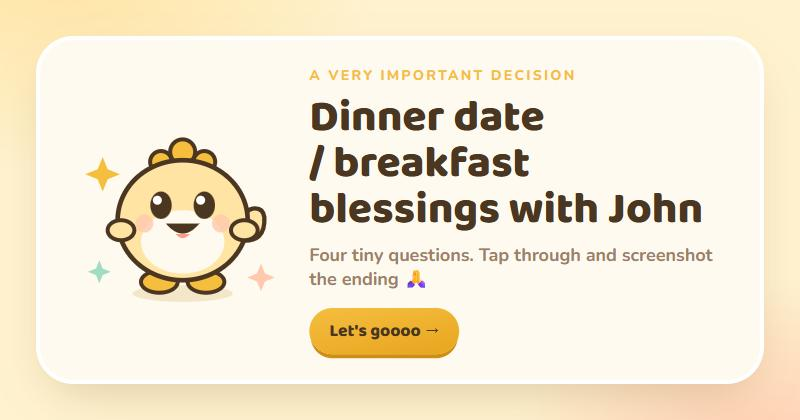
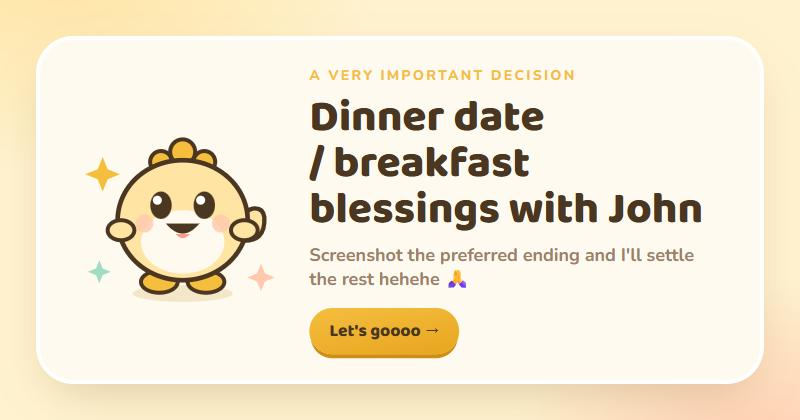
Reword the link preview description

Changed region(s): [[0.375, 0.5881, 0.9062, 0.681]]

diff --git a/index.html b/index.html
@@ -13,14 +13,14 @@
 <meta property="og:type" content="website">
 <meta property="og:url" content="https://wongtrjohn.github.io/meal-picker/">
 <meta property="og:title" content="Dinner date / breakfast blessings with John">
-<meta property="og:description" content="Four tiny questions for Jac. Tap through and screenshot the ending 🙏">
+<meta property="og:description" content="Screenshot the preferred ending and I'll settle the rest hehehe 🙏">
 <meta property="og:image" content="https://wongtrjohn.github.io/meal-picker/preview.jpg">
 <meta property="og:image:type" content="image/jpeg">
 <meta property="og:image:width" content="800">
 <meta property="og:image:height" content="420">
 <meta property="og:image:alt" content="A chubby butter-yellow dragon beside the words Dinner date / breakfast blessings with John">
 <meta name="twitter:card" content="summary_large_image">
-<meta name="description" content="Four tiny questions for Jac. Tap through and screenshot the ending.">
+<meta name="description" content="Screenshot the preferred ending and I'll settle the rest hehehe">
 <meta name="theme-color" content="#FFE4A3">
 <link rel="preconnect" href="https://fonts.gstatic.com" crossorigin>
 <link rel="stylesheet" href="https://fonts.googleapis.com/css2?family=Baloo+2:wght@500;600;700;800&family=Nunito:wght@400;600;700;800&display=swap">

diff --git a/og-source.html b/og-source.html
@@ -66,7 +66,7 @@
     <div class="words">
       <div class="eyebrow">A very important decision</div>
       <h1>Dinner date / breakfast blessings with John</h1>
-      <p>Four tiny questions. Tap through and screenshot the ending 🙏</p>
+      <p>Screenshot the preferred ending and I'll settle the rest hehehe 🙏</p>
       <div class="pill">Let's goooo →</div>
     </div>
   </div>
